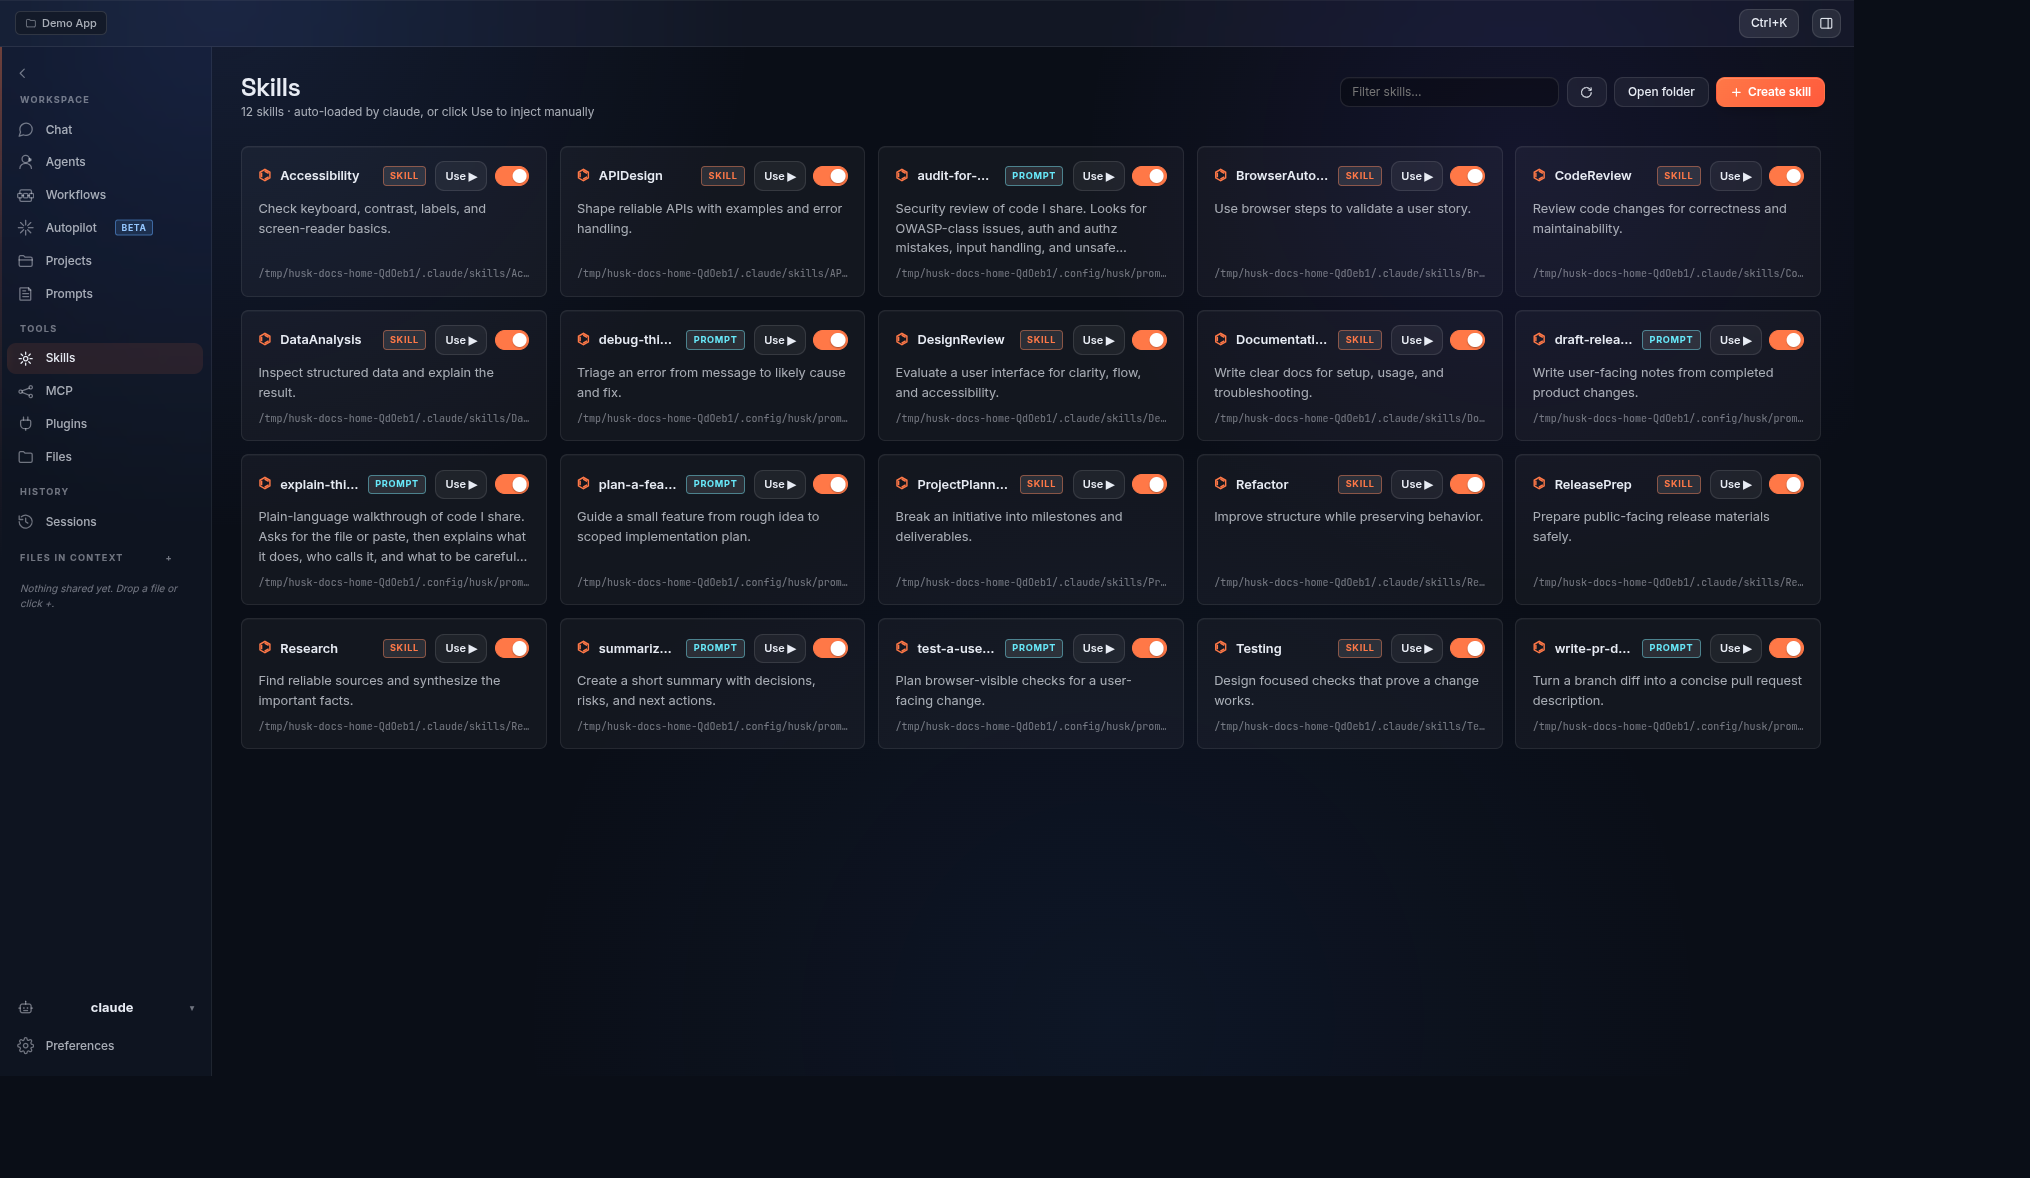
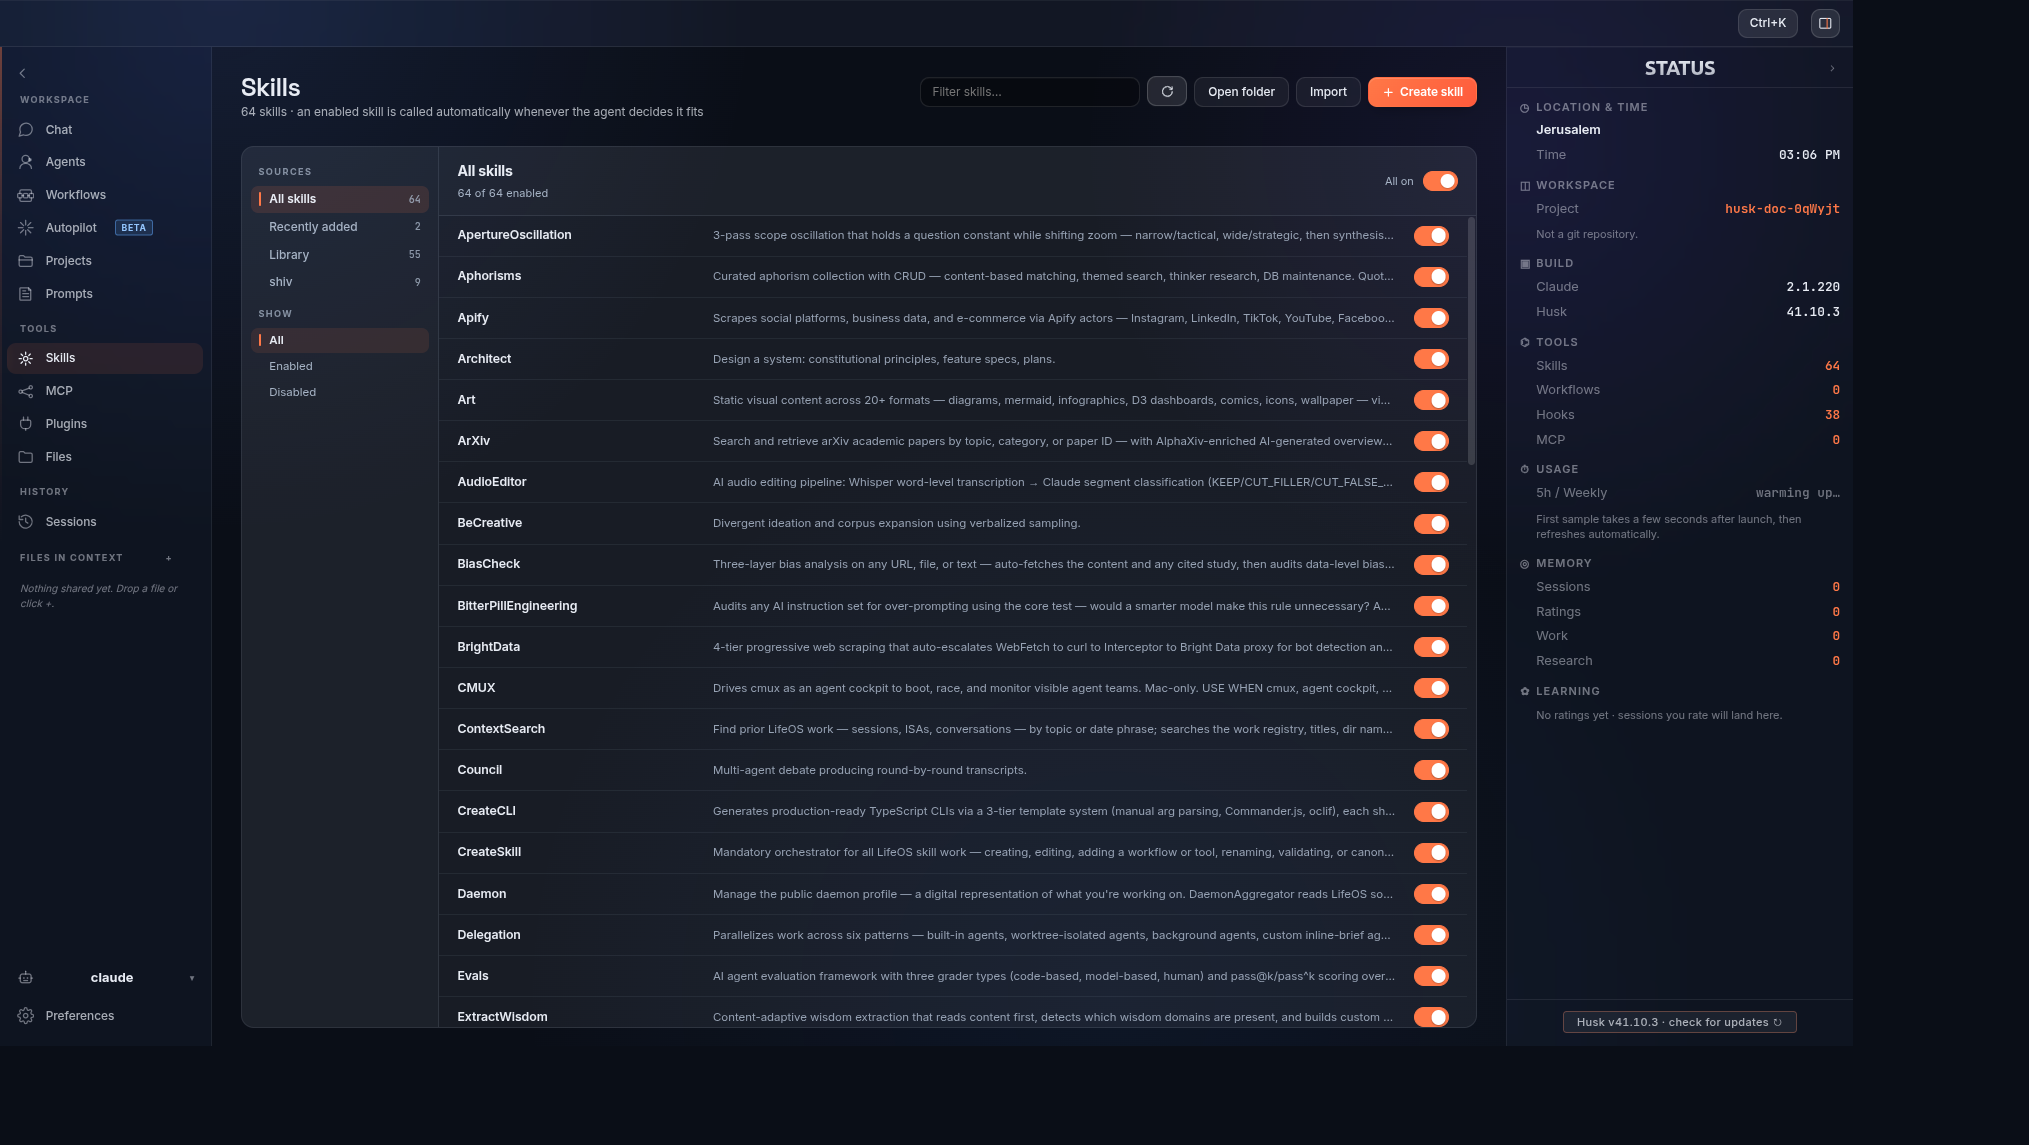
docs: refresh the skills documentation and screenshots

diff --git a/docs/skills-and-prompts.md b/docs/skills-and-prompts.md
@@ -1,76 +1,77 @@
 # Skills and prompts
 
-Husk's Skills page is a unified surface for two different stores. Each row carries a small badge so you always know which kind of thing you are looking at.
+Husk keeps two different things on two different pages, because they behave differently.
 
-## The two stores
+| | Skills | Prompts |
+|---|---|---|
+| Live in | `~/.claude/skills/` | `~/.config/husk/prompts/` |
+| Loaded by | the agent, on its own | nothing; you send them |
+| Page | **Skills** | **Prompts** |
 
-### Claude skills: `~/.claude/skills/`
+## Skills: `~/.claude/skills/`
 
-These are the skills the **agent** auto-loads when it starts. Each skill is a folder containing a `SKILL.md` (plus optionally extra files). Claude reads the front-matter `name` + `description` from `SKILL.md` and decides on its own when to invoke that skill, based on the description.
+A skill is a folder holding a `SKILL.md`, plus any files it needs. The agent reads the front-matter `name` and `description` at startup and decides for itself when a skill is relevant, then reads the body at the moment it invokes it.
 
-Husk does not load these into the chat. Claude does. Husk's job here is to:
+That is the whole contract, and it is why the Skills page has no "run this" button. An enabled skill is already available; pasting its body into the chat would spend the context the skill exists to save and take the decision away from the model.
 
-- **List** every skill folder under `~/.claude/skills/`, including disabled ones (those prefixed with `_disabled_`).
-- **Toggle** them on or off. Toggling renames the directory between `<name>` and `_disabled_<name>` so claude either picks it up or skips it on the next launch.
-- **Show** their description so you can scan the library at a glance.
+Husk's job is to manage what the agent can see:
 
-Source badge: `skill`.
+- **List** every skill folder, including disabled ones (prefixed `_disabled_`).
+- **Enable or disable**, one at a time or a whole source at once. Toggling renames the directory between `<name>` and `_disabled_<name>`, so the agent picks it up or skips it on its next launch.
+- **Import** a skill you already have.
+- **Show** each description, so the library is scannable.
 
-### Husk-managed prompts: `~/.config/husk/prompts/`
+Changes reach the agent when a session starts, so the confirmation carries a **Restart agent** button.
 
-These are **template strings** Husk owns. They never auto-load into the agent. Instead each one has a "Use ▶" button. Click it and Husk types the prompt into the active chat. The agent receives it as if you had typed it yourself.
+## The Skills page
 
-This is how Husk gives non-claude CLIs (copilot, codex, aider, gemini) something useful to do on the Skills page even though those agents don't have a skill loader.
+Two panes. Sources on the left, their skills on the right.
 
-Toggling here is a "hide from list" flag (rename `<name>.md` to `<name>.md.disabled`). User edits to a prompt's text never get overwritten by Husk upgrades.
+```
+SOURCES                shiv                                 All on  ●
+  All skills    82     23 of 23 enabled
+  Recently added 2     ─────────────────────────────────────────────
+  Library       54     hunt-xss     Hunting skill for xss…        ●
+▏ shiv          23     hunt-sqli    Hunting skill for sqli…       ●
+SHOW                   hunt-ssrf    Hunting skill for ssrf…       ●
+  All
+  Enabled
+  Disabled
+```
 
-Source badge: `husk`.
+- **Sources** come from the folder prefix a name already carries. A prefix earns its own entry once at least three skills share it, so `shiv-hunt-xss` and its siblings group under `shiv`; everything else stays under `Library`. The row then drops the prefix its source already states, showing `hunt-xss`, while search still matches the full name.
+- **Recently added** lists what was installed in the last 14 days, newest first. It appears only when something qualifies. Install time comes from the skill directory's own mtime, so enabling or disabling a skill does not make it look new.
+- **Show** filters by state, and composes with the selected source rather than replacing it.
+- **The header switch** enables or disables everything currently in view. It sits mid-track when a source is only partly on.
+- **The row switch** is the only per-skill control.
 
-## Default prompts shipped with Husk
+Clicking a row opens its detail panel with the full `SKILL.md`.
 
-On first launch Husk seeds `~/.config/husk/prompts/` from `installer/prompts/`. The seed never overwrites a file the user already has, so editing a default prompt and then upgrading Husk is safe.
+### Adding a skill
+
+- **Create skill** writes a new one from a name, description and body.
+- **Import** picks one or more `.md` files and installs each as `~/.claude/skills/<name>/SKILL.md`.
+- **Drag a `.md` onto the window** and choose **Install as skill**, which lands in the same place. The other target, **Add to context**, copies into `~/.claude/MEMORY/CONTEXT/` and puts the quoted path in the agent's pending input instead.
+
+## Prompts: `~/.config/husk/prompts/`
+
+Prompts are template strings Husk owns. Nothing auto-loads them. Each has a **Send** action that types the prompt into the active chat, exactly as if you had typed it. That is how a CLI without a skill loader still gets something useful.
+
+Toggling a prompt hides it from the list by renaming `<name>.md` to `<name>.md.disabled`. Your edits are never overwritten by a Husk upgrade.
+
+### Default prompts shipped with Husk
+
+On first launch Husk seeds `~/.config/husk/prompts/` from `installer/prompts/`. The seed never overwrites a file you already have, so editing a default and then upgrading is safe.
 
 | File | What it does |
 |------|--------------|
 | `explain-this-code.md` | Asks for a file or paste, then explains the code in plain language with a flow trace, dependencies, risks, and a "if you change one thing, change this" pointer. |
-| `plan-a-feature.md` | 8-question PM-intake protocol. Walks the user through naming the user, problem, success metric, MVP scope, anti-scope. Emits a baked spec at the end. |
+| `plan-a-feature.md` | 8-question PM-intake protocol. Walks you through naming the user, problem, success metric, MVP scope, anti-scope. Emits a baked spec at the end. |
 | `write-pr-description.md` | Generates a clean PR description from a diff or branch range. Conventional-commits title, "why not what" summary, test plan, risk notes. |
 | `audit-for-security.md` | Methodical security review. Trust boundaries, input handling at each, AuthN/AuthZ, crypto sanity, OWASP-class issues with severity tags. |
 | `summarize-this-document.md` | Three-layer summary: TL;DR, key points (5 to 8 bullets), section-by-section. No filler. |
 | `debug-this-error.md` | Guided triage. Quote the error literally, translate, narrow cause, ask one question if needed, propose surgical fix, verify. |
 
-## The Skills page UI
+## Why two pages
 
-```
-[ Filter skills...  ]  ↻  Open folder  + Create skill
-
-Agents       SKILL  Use ▶  ●        compose CUSTOM agents...
-refactor     SKILL  Use ▶  ●        guided multi-file refactor...
-review       SKILL  Use ▶  ●        diff-aware code review...
-explain-this-code  HUSK  Use ▶  ●  plain-language code explanation...
-...
-```
-
-- **Use ▶** on any row pastes the prompt into the active chat. Works for both stores.
-- **Toggle** flips the on/off state in place (animated iOS-style switch, same shared component as everywhere else in the product).
-- **Source badge** (`SKILL` or `HUSK`) tells you which store the row belongs to.
-- **Filter** does fuzzy match across name + description.
-
-## Page label per agent
-
-The page is always called "Skills" regardless of which CLI you picked. The cross-CLI handling is internal: claude auto-loads `~/.claude/skills/`, generic agents only see `Use ▶`. The subtitle adapts:
-
-- claude: `auto-loaded by claude · click Use to inject manually`
-- generic: `click Use to inject any skill into the chat`
-
-## Adding a new prompt
-
-The fast path: click `+ Create skill` in the Skills page header. The modal asks for name (lowercase letters/digits/dashes, must start with a letter), description, and content. Husk picks the right store based on the active agent (claude → `~/.claude/skills/<name>/SKILL.md`, otherwise → `~/.config/husk/prompts/<name>.md`).
-
-The slow path: drop a `.md` file onto the Husk window. The drag overlay offers two targets:
-- **Add to context** → copy into `~/.claude/MEMORY/CONTEXT/` and drop the quoted path into the agent's pending input (no trailing newline, so you add your question and send both together)
-- **Install as skill** → copy into `~/.claude/skills/<basename>/SKILL.md`
-
-## Why one page
-
-Showing two stores side-by-side keeps the user's mental model simple: "things I can use with my agent". The internal split: auto-loaded vs. paste-on-click: is a badge, not a separate page. New users do not need to learn the difference to be productive.
+A skill and a prompt answer different questions. "What is my agent allowed to reach for?" is a library you curate and then leave alone. "What do I want to say right now?" is something you fire. Putting both in one list made a single row mean two different things: some rows were invoked by the model, others only by you, and the page had to explain the difference in a badge on every line. Splitting them lets each page state one rule.

diff --git a/README.md b/README.md
@@ -35,8 +35,8 @@ CLI agents are powerful and free. But they live in a black-on-black terminal tha
 <br /><br />
 
 <img src="docs/images/husk-agents.png" alt="Agents page" width="450" />
-<img src="docs/images/husk-workflows.png" alt="Workflows graph editor" width="450" />
-<br /><sub><i>Curate the agent personas active for the next session. Build multi-step automations with conditional branching in the Workflows graph editor.</i></sub>
+<img src="docs/images/husk-workflows.png" alt="Workflows hub" width="450" />
+<br /><sub><i>Curate the agent personas active for the next session. Start a multi-step automation from a ready-made topology, or build your own in the graph editor.</i></sub>
 
 <br /><br />
 
@@ -53,7 +53,7 @@ CLI agents are powerful and free. But they live in a black-on-black terminal tha
 
 <img src="docs/images/husk-skills.png" alt="Skills page" width="450" />
 <img src="docs/images/husk-mcp.png" alt="MCP servers page" width="450" />
-<br /><sub><i>Skills with one-click <b>Use</b>, animated toggles, and source badges. MCP servers with live connection state and a curated catalog.</i></sub>
+<br /><sub><i>Browse skills by source, switch them on per skill or a whole folder at once, and see what was added recently. MCP servers with live connection state and a curated catalog.</i></sub>
 
 <br /><br />
 

diff --git a/docs/README.md b/docs/README.md
@@ -7,7 +7,7 @@ Deeper reading than the project README. Pick a topic.
 | [installation.md](installation.md) | Per-OS install, packaging, dev mode, auto-update behavior, uninstall. |
 | [build-from-source.md](build-from-source.md) | Step-by-step: prerequisites, clone, build, run, package, troubleshoot. |
 | [architecture.md](architecture.md) | Process model, IPC surface, packaging layout, where data lives on disk. |
-| [skills-and-prompts.md](skills-and-prompts.md) | The unified Skills page: claude skills, Husk-managed prompts, the `Use` button, the curated default set. |
+| [skills-and-prompts.md](skills-and-prompts.md) | Why skills and prompts are separate pages, the two-pane Skills browser, importing, and the curated default prompts. |
 | [mcp.md](mcp.md) | MCP integration: catalog, custom install (stdio + HTTP/SSE), live health, the JSON paste path. |
 | [contributing.md](contributing.md) | Repo layout, dev workflow, conventional commits, security CI, how to ship a release. |
 
